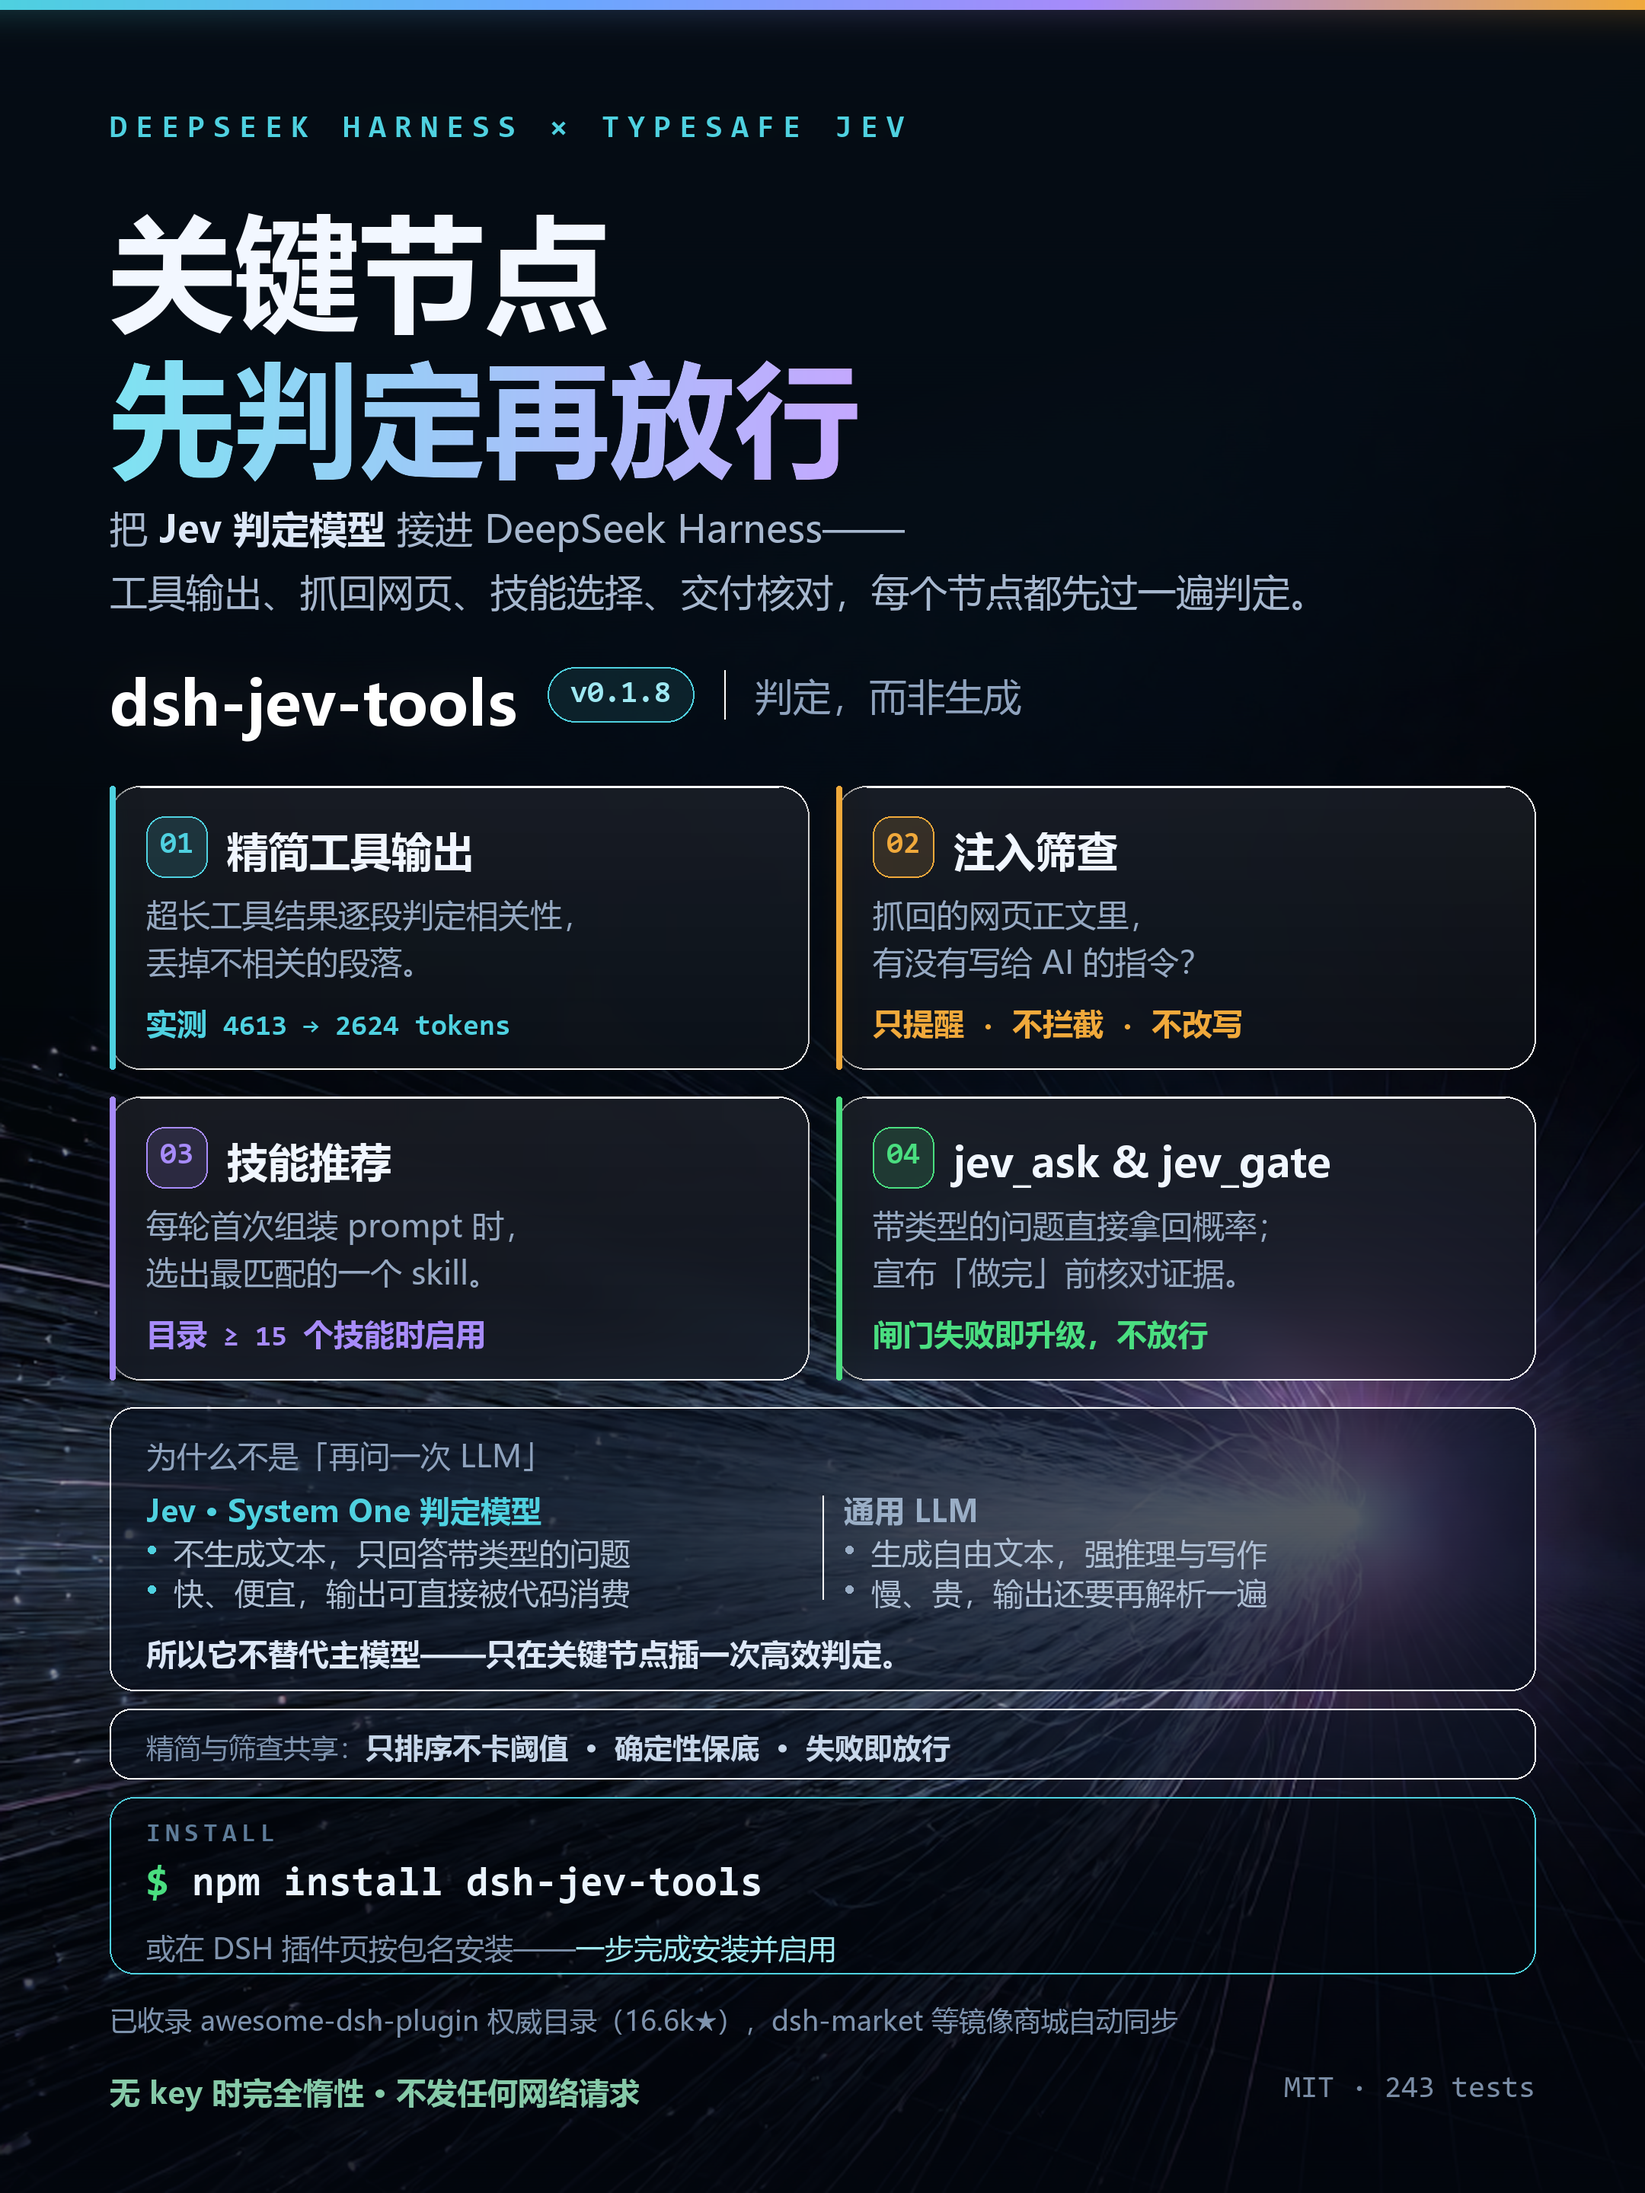
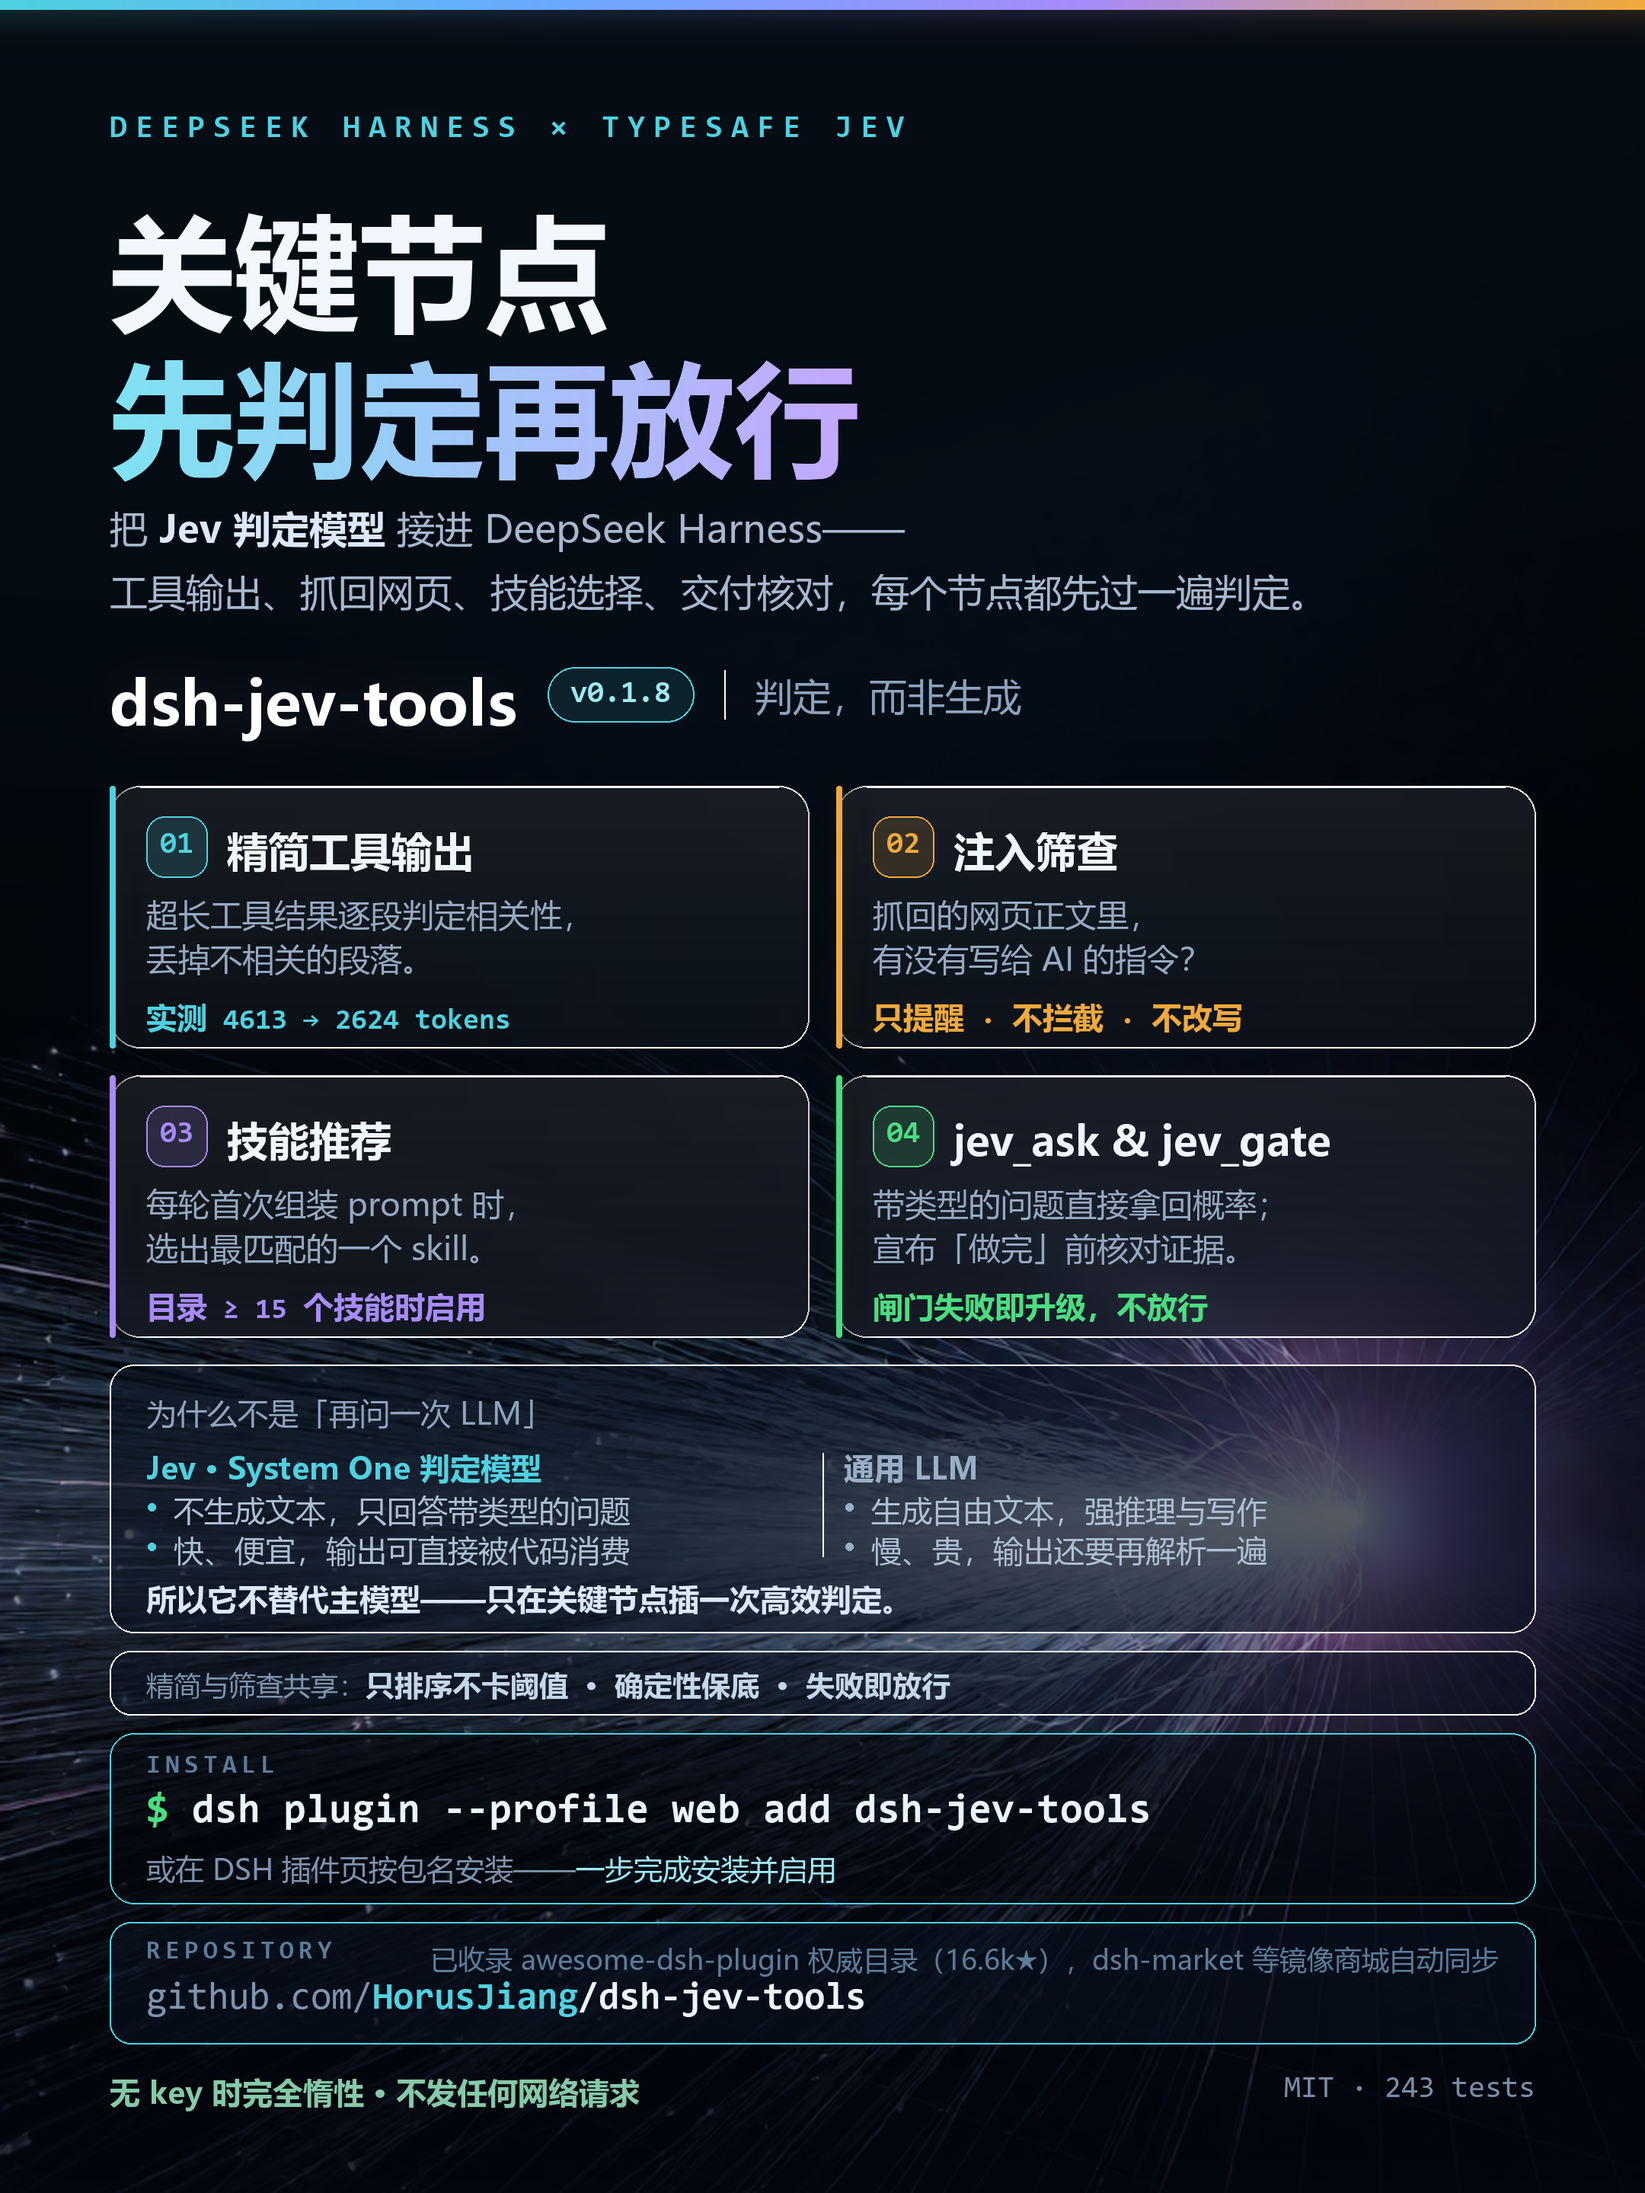
docs: the poster and the README now say how the plugin actually gets loaded
The poster advertised npm install dsh-jev-tools. That command does not put this plugin inside DeepSeek Harness at all: it only drops the package into node_modules, and npm knows nothing about dsh.profile.bundles, the one list the loader reads. The poster now carries the command that installs and activates in one step.

docs/dev-workflow.md section 9 claimed dsh plugin add only installs without enabling. Reading the source, that is wrong: plugin-manager's reconcile() pushes any newly installed dependency that declares dsh.bundle into dsh.profile.bundles, and it runs on this path unconditionally. The section is corrected with the file references, and the README install section now warns against substituting npm install.

The poster also gains a REPOSITORY block: the account name is the emphasised part, because a package name can be squatted and an account cannot.

Changed region(s): [[0.062, 0.4062, 0.9306, 0.9375], [0.3722, 0.5938, 0.4032, 0.625]]

diff --git a/artwork/render_poster.py b/artwork/render_poster.py
@@ -282,6 +282,8 @@ def draw_content(img: Image.Image) -> None:
     f_cmd = font("mono_bold", 27)
     f_hint = font("cn", 19)
     f_mkt = font("cn", 18)
+    f_repo = font("mono", 25)
+    f_repo_b = font("mono_bold", 25)
     f_foot = font("cn_bold", 20)
     f_foot2 = font("mono", 20)
 
@@ -348,7 +350,7 @@ def draw_content(img: Image.Image) -> None:
     draw_at(d, tx + 20, yb + 6, "判定，而非生成", f_tag, "#8FA3BE")
 
     # ---- feature grid（四个节点）
-    gy, cw, ch, gap = 516, (CONTENT_W - 18) / 2, 186, 18
+    gy, cw, ch, gap = 516, (CONTENT_W - 18) / 2, 172, 18
     cards = [
         (CYAN, "01", "精简工具输出", "超长工具结果逐段判定相关性，\n丢掉不相关的段落。", "实测 4613 → 2624 tokens"),
         (AMBER, "02", "注入筛查", "抓回的网页正文里，\n有没有写给 AI 的指令？", "只提醒 · 不拦截 · 不改写"),
@@ -374,12 +376,12 @@ def draw_content(img: Image.Image) -> None:
 
         draw_at(d, bx + 40 + 13, by + 4, title, f_card_h, "#F0F6FF")
         for j, line in enumerate(desc.split("\n")):
-            draw_at(d, cx + 24, by + 40 + 10 + j * 31, line, f_card_p, "#96A9C2")
-        draw_mixed(d, cx + 24, by + 40 + 10 + 62 + 10, metric,
+            draw_at(d, cx + 24, by + 40 + 10 + j * 29, line, f_card_p, "#96A9C2")
+        draw_mixed(d, cx + 24, by + 40 + 10 + 58 + 10, metric,
                    f_metric, f_metric_m, accent)
 
     # ---- 为什么不是「再问一次 LLM」
-    ky, kh = gy + 2 * ch + gap + 18, 186
+    ky, kh = gy + 2 * ch + gap + 18, 176
     kbox = (PAD, ky, PAD + CONTENT_W, ky + kh)
     panel(img, kbox, 16, (8, 16, 30, 150), (255, 255, 255, 30))
     d = ImageDraw.Draw(img)
@@ -404,32 +406,43 @@ def draw_content(img: Image.Image) -> None:
             d.ellipse((u(x + 1), u(by2 + 9), u(x + 6), u(by2 + 14)), fill=accent)
             draw_at(d, x + 18, by2, b, f_blk_b, "#AEBFD4")
 
-    draw_at(d, PAD + 24, ky + 148,
+    draw_at(d, PAD + 24, ky + 140,
             "所以它不替代主模型——只在关键节点插一次高效判定。", f_blk_f, "#DCE7F7")
 
     # ---- 三条性质（作用域必须写明：闸门刻意相反）
-    py, ph = ky + kh + 12, 46
+    py, ph = ky + kh + 12, 42
     panel(img, (PAD, py, PAD + CONTENT_W, py + ph), 14, (8, 16, 30, 140), (255, 255, 255, 28))
     d = ImageDraw.Draw(img)
-    x = draw_at(d, PAD + 24, py + 13, "精简与筛查共享：", f_strip_l, "#7E93AE")
-    draw_at(d, x, py + 12, "只排序不卡阈值  ·  确定性保底  ·  失败即放行", f_strip, "#C6D6E9")
+    x = draw_at(d, PAD + 24, py + 10, "精简与筛查共享：", f_strip_l, "#7E93AE")
+    draw_at(d, x, py + 9, "只排序不卡阈值  ·  确定性保底  ·  失败即放行", f_strip, "#C6D6E9")
 
-    # ---- install（按你的要求走 npm）
-    iy, ih = py + ph + 12, 116
+    # ---- install
+    # `dsh plugin … add` 而不是 `npm install`：只有前者会在装包之后把包名写进
+    # `dsh.profile.bundles`（plugin-manager 的 reconcile），而 DSH 只解析那个列表。
+    # 纯 npm 安装会把包留在 node_modules 里、profile 一个字不改，DSH 永远不挂载它。
+    iy, ih = py + ph + 12, 112
     panel(img, (PAD, iy, PAD + CONTENT_W, iy + ih), 16, (2, 6, 13, 150),
           rgb_of(CYAN) + (77,))
     d = ImageDraw.Draw(img)
-    draw_spaced(d, PAD + 24, iy + 16, "INSTALL", f_lbl, "#5E7C99", 3.0)
-    x = draw_at(d, PAD + 24, iy + 44, "$ ", f_cmd, GREEN)
-    draw_at(d, x, iy + 44, "npm install dsh-jev-tools", f_cmd, "#EAF4FF")
-    x = draw_at(d, PAD + 24, iy + 86, "或在 DSH 插件页按包名安装——", f_hint, "#7F93AD")
-    x = draw_at(d, x, iy + 86, "一步完成安装并启用", f_hint, "#9FE8F2")
+    draw_spaced(d, PAD + 24, iy + 13, "INSTALL", f_lbl, "#5E7C99", 3.0)
+    x = draw_at(d, PAD + 24, iy + 38, "$ ", f_cmd, GREEN)
+    draw_at(d, x, iy + 38, "dsh plugin --profile web add dsh-jev-tools", f_cmd, "#EAF4FF")
+    x = draw_at(d, PAD + 24, iy + 76, "或在 DSH 插件页按包名安装——", f_hint, "#7F93AD")
+    x = draw_at(d, x, iy + 76, "一步完成安装并启用", f_hint, "#9FE8F2")
 
-    # ---- 市场收录
-    my = iy + ih + 18
-    draw_mixed(d, PAD, my,
-               "已收录 awesome-dsh-plugin 权威目录（16.6k★），dsh-market 等镜像商城自动同步",
-               f_mkt, f_mkt, "#7E93AE")
+    # ---- repository + 市场收录
+    # 包名可能重名，账户不会：把 HorusJiang 做成这一行里最醒目的部分。
+    ry, rh = iy + ih + 12, 80
+    panel(img, (PAD, ry, PAD + CONTENT_W, ry + rh), 14, (8, 16, 30, 155),
+          rgb_of(CYAN) + (56,))
+    d = ImageDraw.Draw(img)
+    draw_spaced(d, PAD + 24, ry + 11, "REPOSITORY", f_lbl, "#5E7C99", 3.0)
+    markets = "已收录 awesome-dsh-plugin 权威目录（16.6k★），dsh-market 等镜像商城自动同步"
+    mw = width_of(d, markets, f_mkt)
+    draw_mixed(d, PAD + CONTENT_W - 24 - mw, ry + 12, markets, f_mkt, f_mkt, "#5E7C99")
+    x = draw_at(d, PAD + 24, ry + 38, "github.com/", f_repo, "#7F93AD")
+    x = draw_at(d, x, ry + 38, "HorusJiang", f_repo_b, CYAN)
+    draw_at(d, x, ry + 38, "/dsh-jev-tools", f_repo_b, "#EAF4FF")
 
     # ---- footer
     fy = 1360

diff --git a/docs/dev-workflow.md b/docs/dev-workflow.md
@@ -144,7 +144,18 @@ dsh plugin --profile <name> <pnpm 参数…>
 
 - `--profile` 是 **`requiredOption`**——所以 `dsh plugin add <pkg>` 是**错的**（缺 `--profile`，Commander 直接拒）
 - `--profile` 之后的参数**原样转发给 profile 目录里的 `pnpm`**（`add` / `remove` / `why` / …）
-- **它只装包，不启用**。插件页面那条路才是一步装好并启用
+- **`add` 是"装包 + 启用"一步完成的**，插件页面那条路只是同一件事的另一个入口。
+
+  **这一条以前写反了**（原文是「它只装包，不启用」），2026-09-22 读源码更正。pnpm 成功后，
+  `plugin-manager` 会跑一次 `reconcile()`（`packages/boot/plugin-manager/src/operations.ts`）：
+  遍历**新装的依赖**，凡是声明了 `dsh.bundle` 的就把包名 push 进 `dsh.profile.bundles` 并存盘。
+  它由 `:160` 的 `if (exitCode === 0 && options.activateNewBundles !== false)` 触发，而
+  `apps/cli/src/plugin.ts` 调用时**没有传** `activateNewBundles`，所以 `dsh plugin` 这条路上它必然执行。
+
+  **推论（海报和 README 都依赖它）**：`npm install dsh-jev-tools` **不能**让 DSH 加载这个插件。
+  它只把包放进 `node_modules`，而 npm 不知道 `dsh.profile.bundles` 这个字段；DSH 的加载器只解析
+  那个列表（`packages/boot/app-boot/src/profile.ts`）。结果就是包在磁盘上、插件一个字节都没跑起来。
+  唯一能让它生效的入口是 `dsh plugin --profile <name> add`，或插件页面。
 
 ## 10. 这台机器上的 shell 不是 UTF-8 安全的，读也不行
 

diff --git a/README.en.md b/README.en.md
@@ -60,6 +60,8 @@ dsh plugin --profile web add dsh-jev-tools
 
 `--profile` is **required**: everything after it is forwarded verbatim to `pnpm` in that profile's directory. `web` is the profile behind the desktop / web app — use whichever profile you actually run. You can also install from DSH's plugin page by package name or GitHub URL, which installs *and enables* it in one step.
 
+That command **installs the package and registers it as a profile layer**: this package declares `dsh.bundle`, and on that basis the installer writes its name into `dsh.profile.bundles` — the only list DSH's loader reads. So **do not substitute `npm install dsh-jev-tools`**: that only drops the package into `node_modules`, npm knows nothing about `dsh.profile.bundles`, and the package sits on disk while not a byte of the plugin runs.
+
 ## Configure the API key
 
 **With no key the plugin is completely inert**: it mounts, nothing takes effect, and it makes **no network request at all**. Any one of three ways works, and none needs a restart:

diff --git a/README.md b/README.md
@@ -60,6 +60,8 @@ dsh plugin --profile web add dsh-jev-tools
 
 `--profile` **必填**：它把其后的参数原样转发给该 profile 目录里的 `pnpm`。`web` 是桌面 / Web 应用所用的 profile，请换成你实际在跑的那个。也可以直接在 DSH 的插件页面里按包名 / GitHub 地址安装——那条路径会**一步完成安装并启用**。
 
+这条命令做的是**装包 + 把它注册成 profile 的一层**：本包的 `package.json` 声明了 `dsh.bundle`，安装器据此把包名写进 `dsh.profile.bundles`，而 DSH 的加载器只解析那个列表。所以**不要用 `npm install dsh-jev-tools` 代替**——那只会把包放进 `node_modules`；npm 不认识 `dsh.profile.bundles` 这个字段，包在磁盘上，插件一个字节都不会运行。
+
 ## 配置 API key
 
 **没配 key 时插件完全惰性**：正常挂载、所有能力都不生效、**不发任何网络请求**。三种方式任选一种，都不用重启：
